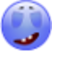
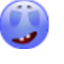
Les puyos en mode versus ont une taille de 48x48 et sont contres la bordure. Le fond blanc a une taille de 54x54.

diff --git a/puyopuyo-android/src/com/tacoid/puyopuyo/GridActor.java b/puyopuyo-android/src/com/tacoid/puyopuyo/GridActor.java
@@ -20,13 +20,27 @@ public class GridActor extends Actor {
 	private int origY;
 	private Texture white;
 	private int size;
+	private int sizePuyo;
+	private int offWhite;
 
-	public GridActor(GameLogic logic, int origX, int origY, int size) {
+	/**
+	 * 
+	 * @param logic
+	 * @param origX
+	 * @param origY
+	 * @param size Taille d'une colonne.
+	 * @param sizePuyo Taille d'un puyo
+	 */
+	public GridActor(GameLogic logic, int origX, int origY, int size, int sizePuyo) {
 		this.origX = origX;
 		this.origY = origY;
 		this.logic = logic;
-		this.size = size + 2;
+		this.size = size;
+		this.sizePuyo = sizePuyo;
+		this.offWhite = (size - sizePuyo) / 2;
 		puyopuyo = PuyoPuyo.getInstance();
+		
+		// TODO: changer nom fichiers pour intégrer taille.
 		boules[0] = puyopuyo.manager.get("images/vert.png", Texture.class);
 		boules[1] = puyopuyo.manager.get("images/jaune.png", Texture.class);
 		boules[2] = puyopuyo.manager.get("images/rouge.png", Texture.class);
@@ -73,8 +87,8 @@ public class GridActor extends Actor {
 		for (int l = 0; l < logic.LINES; l++) {
 			for (int c = 0; c < logic.COLUMNS; c++) {
 				if (grid[l][c] > 0) {
-					batch.draw(boules_f[grid[l][c] - 1], c * size + origX, l * size
-							+ origY);
+					batch.draw(boules_f[grid[l][c] - 1], c * (size + 1) + origX,
+							l * size + origY);
 				}
 			}
 		}
@@ -83,14 +97,14 @@ public class GridActor extends Actor {
 			Coord[] next = logic.getPiece();
 			if (next != null) {
 				if (next[0].coul > 0 && next[0].l < logic.LINES) {
-					batch.draw(white, next[0].c * size + origX, next[0].l * size
-							+ origY);
+					batch.draw(white, next[0].c * (size + 1) + origX - offWhite, 
+							next[0].l * size + origY + offWhite);
 					batch.draw(boules[next[0].coul - 1],
-							next[0].c * size + origX, next[0].l * size + origY);
+							next[0].c * (size + 1) + origX, next[0].l * size + origY);
 				}
 				if (next[1].coul > 0 && next[1].l < logic.LINES) {
 					batch.draw(boules[next[1].coul - 1],
-							next[1].c * size + origX, next[1].l * size + origY);
+							next[1].c * (size + 1) + origX, next[1].l * size + origY);
 				}
 			}
 		}
@@ -99,7 +113,7 @@ public class GridActor extends Actor {
 			if (logic.getFallings() != null) {
 				for (Falling f : logic.getFallings()) {
 					Coord end = f.getEnd();
-					batch.draw(boules[end.coul - 1], end.c * size + origX, end.l
+					batch.draw(boules[end.coul - 1], end.c * (size + 1) + origX, end.l
 							* size + f.getRemaining() * size + origY);
 				}
 			}

diff --git a/puyopuyo-android/src/com/tacoid/puyopuyo/GameScreen.java b/puyopuyo-android/src/com/tacoid/puyopuyo/GameScreen.java
@@ -130,12 +130,12 @@ public class GameScreen implements Screen {
 		gameLogicIA.setOpponent(gameLogic);
 		controller = new Controller(gameLogic, stage);
 
-		gridActor = new GridActor(gameLogic, 216, 32, 52);
-		NextPieceActor nextPieceActor = new NextPieceActor(gameLogic, 55, 480, 52);
+		gridActor = new GridActor(gameLogic, 214, 26, 54, 48);
+		NextPieceActor nextPieceActor = new NextPieceActor(gameLogic, 55, 480, 48);
 		ScoreActor scoreActor = new ScoreActor(gameLogic, 480, 730);
 
-		gridActorIA = new GridActor(gameLogicIA, 728, 32, 52);
-		NextPieceActor nextPieceActorIA = new NextPieceActor(gameLogicIA, 1100,	480, 52);
+		gridActorIA = new GridActor(gameLogicIA, 728, 26, 54, 48);
+		NextPieceActor nextPieceActorIA = new NextPieceActor(gameLogicIA, 1100,	480, 48);
 		ScoreActor scoreActorIA = new ScoreActor(gameLogicIA, 890, 730);
 
 		TextureRegion backgroundRegion = new TextureRegion(

diff --git a/puyopuyo-android/src/com/tacoid/puyopuyo/GameSoloScreen.java b/puyopuyo-android/src/com/tacoid/puyopuyo/GameSoloScreen.java
@@ -133,7 +133,7 @@ public class GameSoloScreen implements Screen {
 		gameLogic = new GameLogic();
 		controller = new Controller(gameLogic, stage);
 
-		gridActor = new GridActor(gameLogic, 280, 320, 70);
+		gridActor = new GridActor(gameLogic, 280, 320, 75, 70);
 		NextPieceActor nextPieceActor = new NextPieceActor(gameLogic, 80, 920, 70);
 		ScoreActor scoreActor = new ScoreActor(gameLogic, 590, 1230);
 
